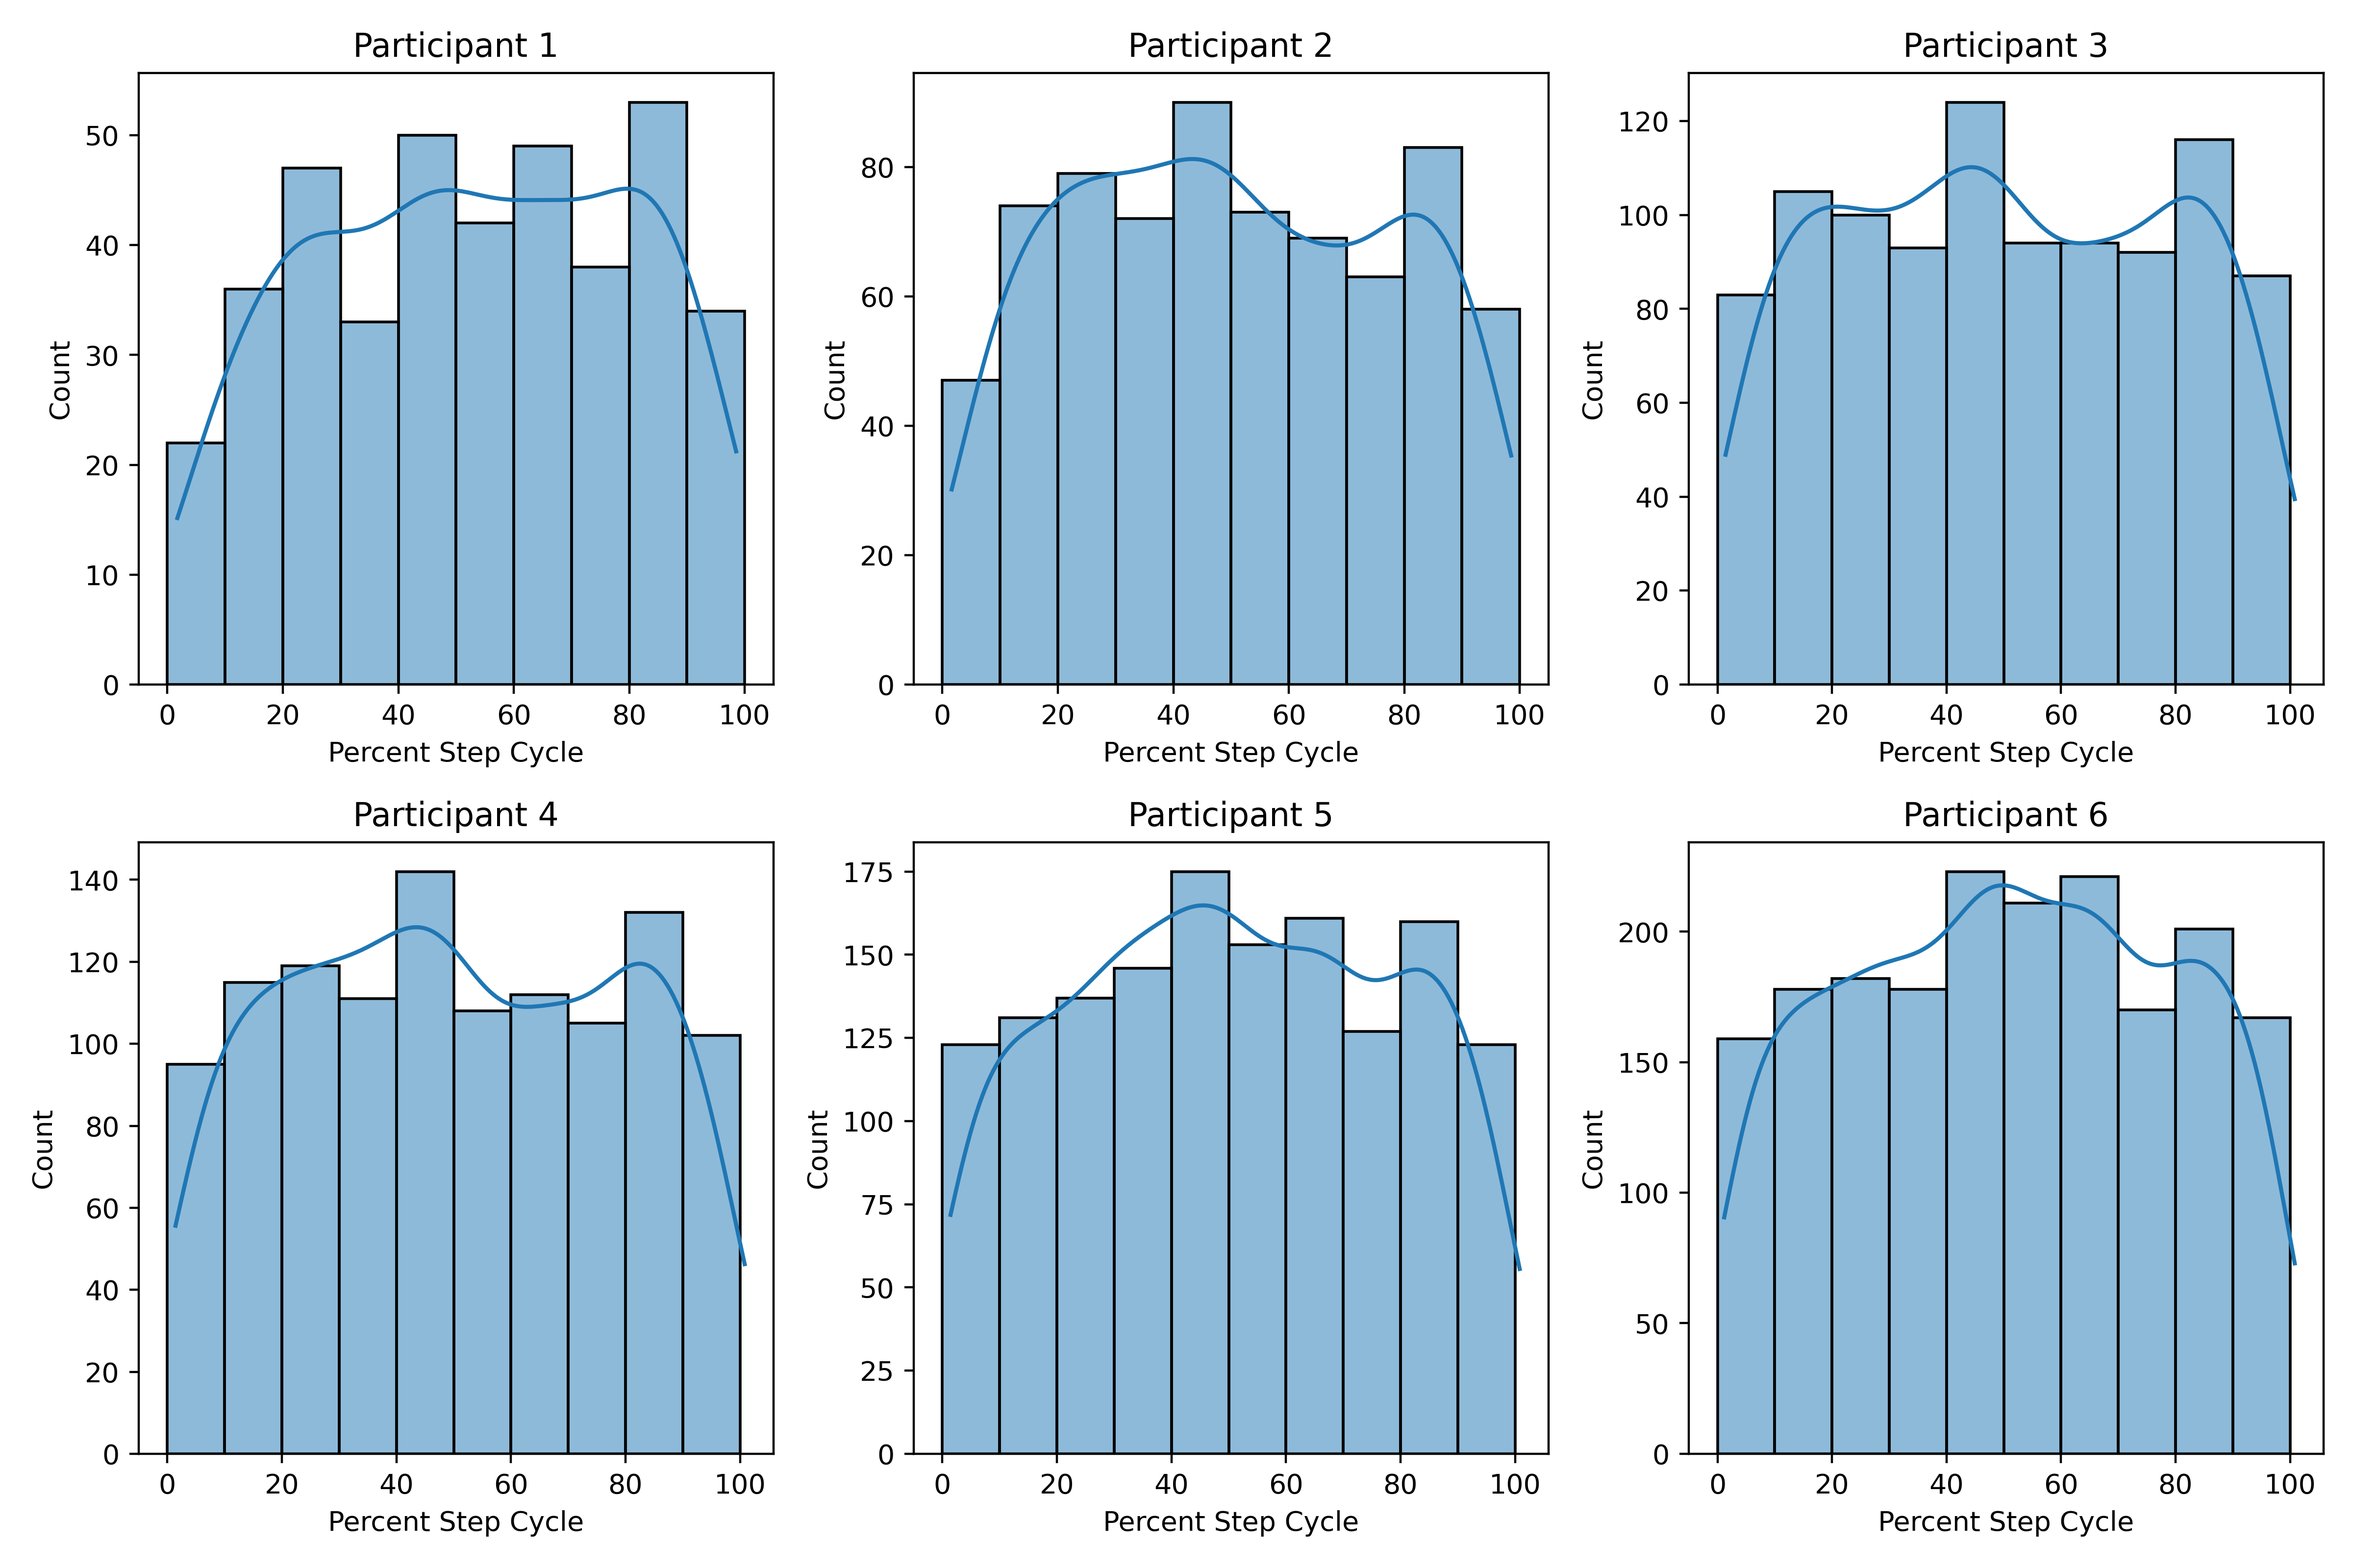
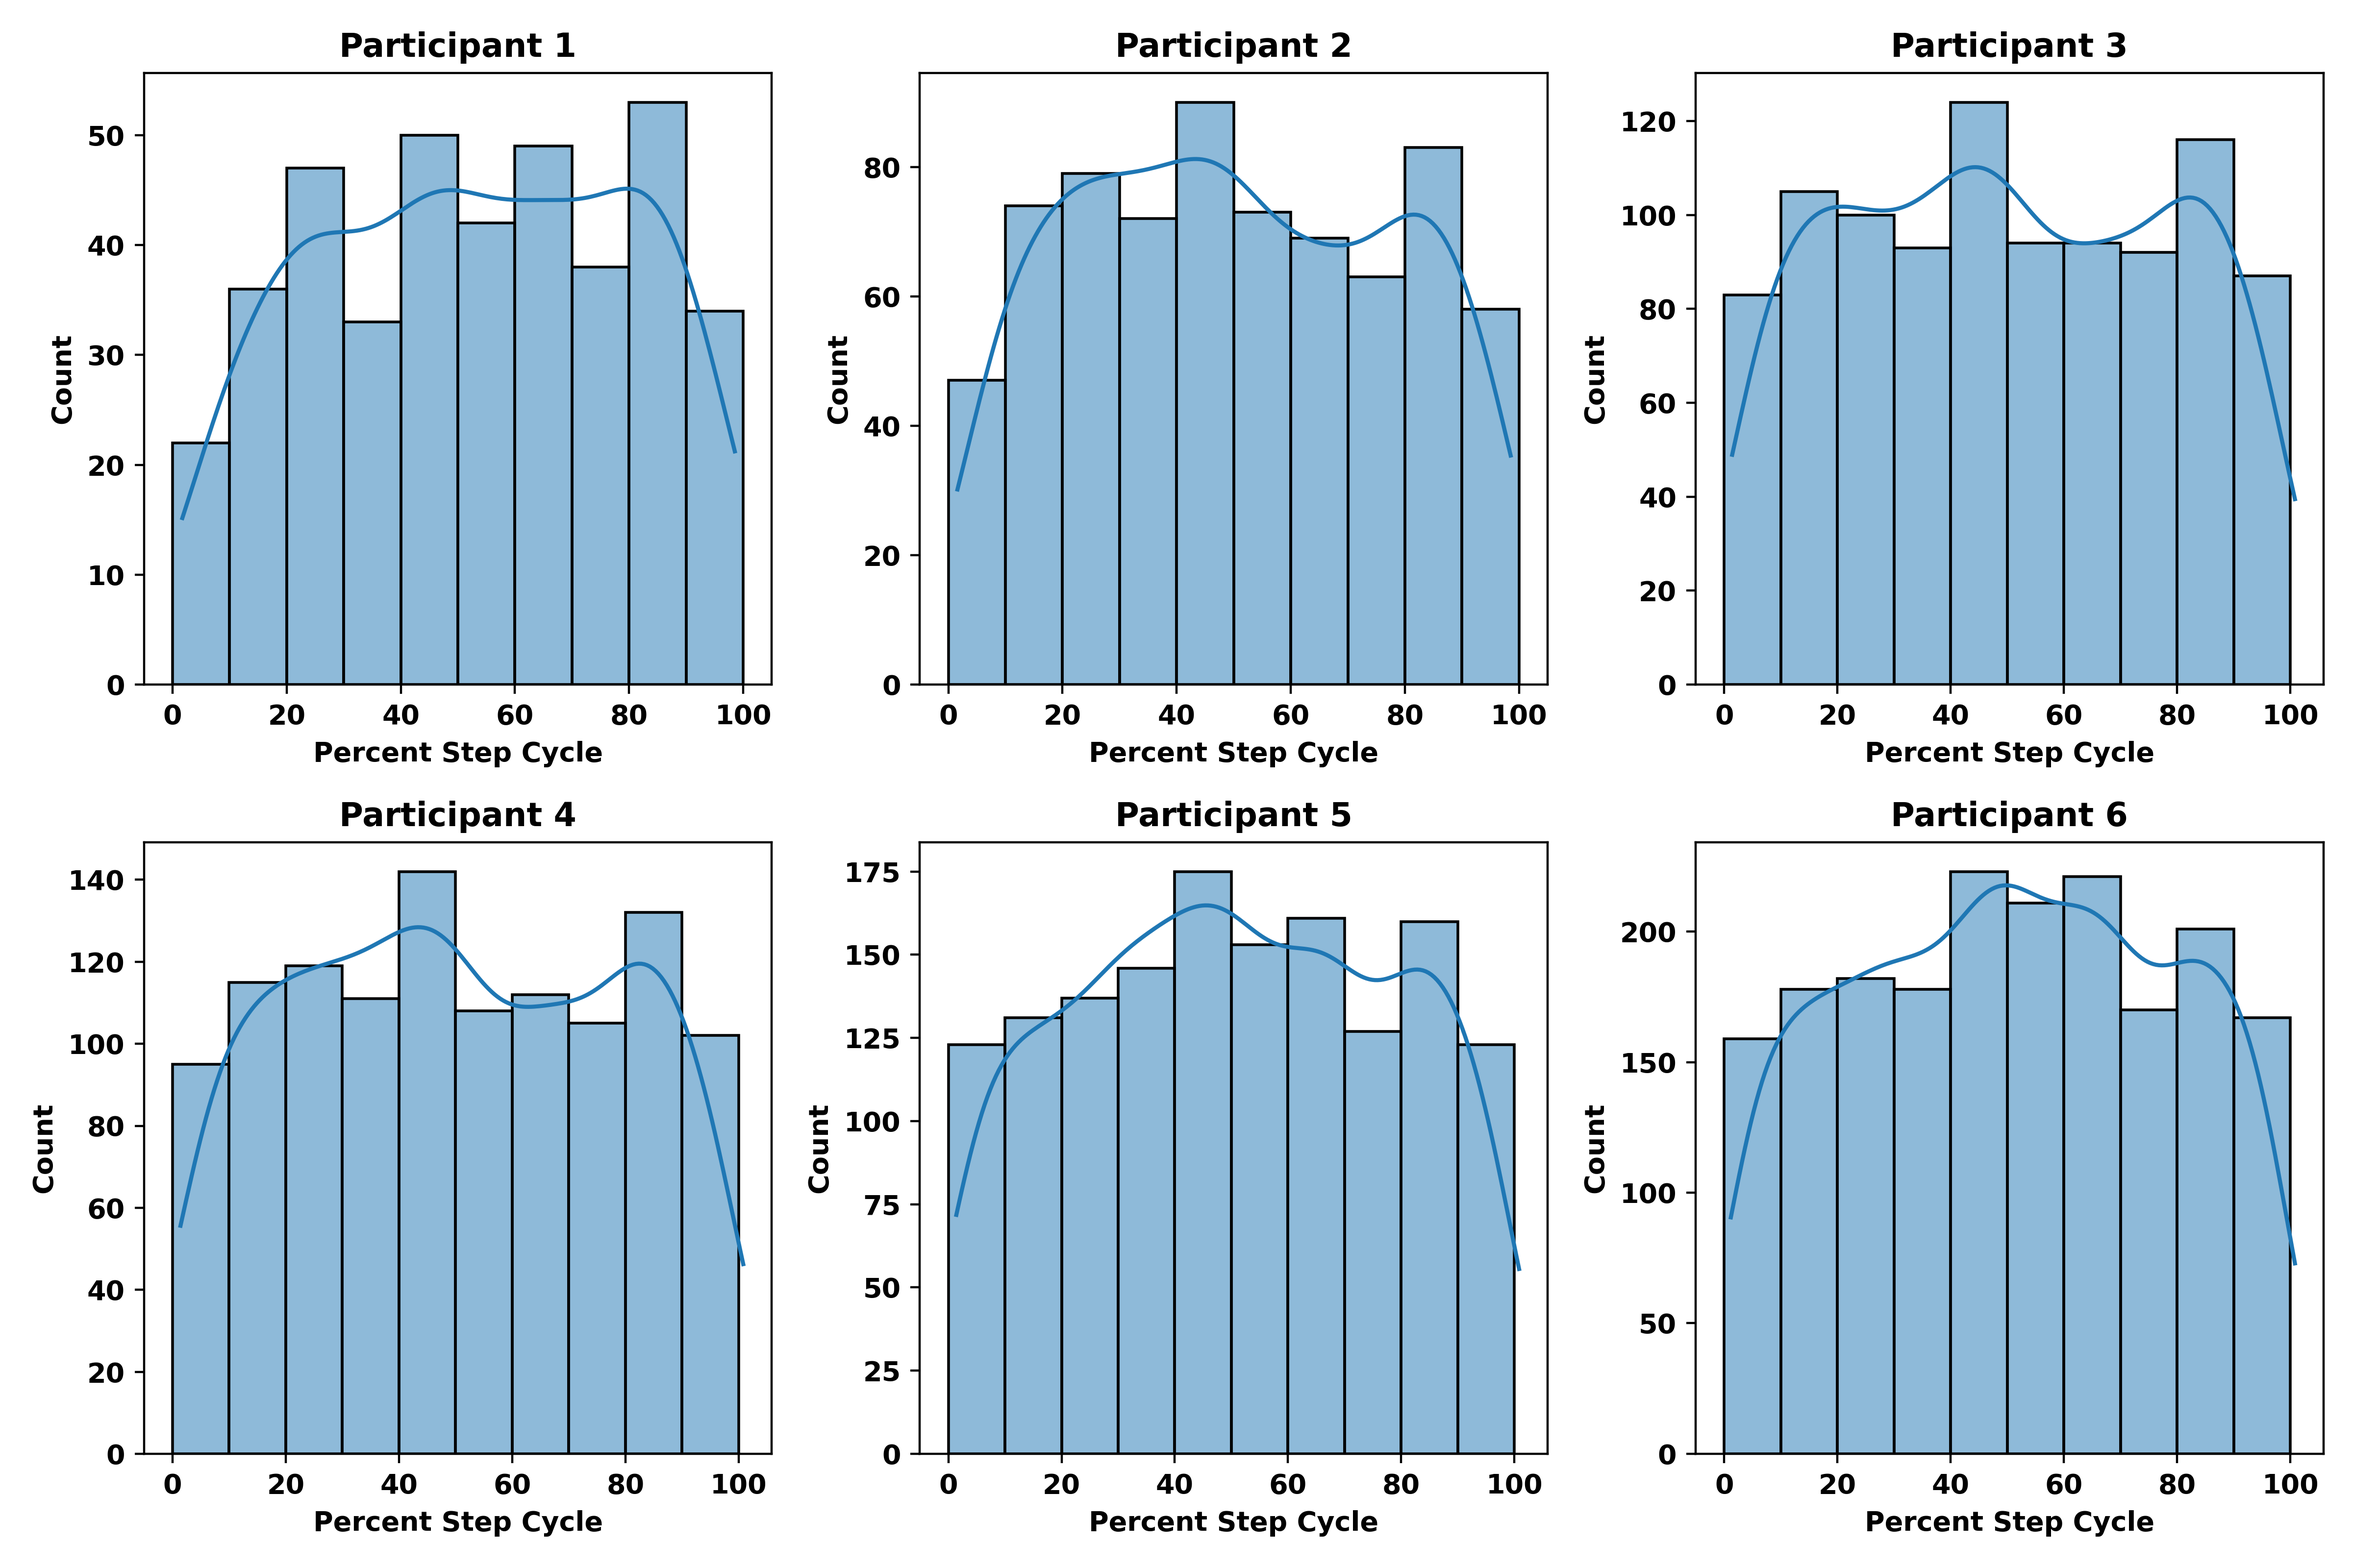
ADD: latest p_value plot

diff --git a/alternation_rate_step_cycle.py b/alternation_rate_step_cycle.py
@@ -11,6 +11,9 @@ from scipy.stats import shapiro, kstest, norm, uniform, ttest_rel
 import statsmodels.api as sm
 from fitter import Fitter, get_common_distributions, get_distributions
 from tqdm import tqdm
+from matplotlib import rc,rcParams
+rc('font', weight='bold')
+rcParams['text.latex.preamble'] = [r'\usepackage{sfmath} \boldmath']
 
 def read_all_files():
     directory = "/home/brianszekely/Desktop/ProjectsResearch/Binocular_Rivalry/Data/*/" #POPOS
@@ -368,8 +371,8 @@ def fit_dist(df):
     plt.figure()
     f.hist()
     f.plot_pdf()
-    plt.ylabel('Count')
-    plt.xlabel('Percent Step Cycle')
+    plt.ylabel('Count',fontweight='bold')
+    plt.xlabel('Percent Step Cycle',fontweight='bold')
     plt.savefig('alternations_step_cycle_fitted_dist.png',dpi=400)
     plt.close()
 
@@ -501,20 +504,30 @@ def main():
         row, col = divmod(i, 3)  # Calculate the row and column for the subplot
         ax = axes[row, col]
         sns.histplot(data=df, x="Percent Step Cycle", bins=bin_edges, kde=True, ax=ax)
+        ax.set_ylabel('Count', fontweight='bold')
+        ax.set_xlabel('Percent Step Cycle', fontweight='bold')
         bin_counts = np.histogram(df["Percent Step Cycle"], bins=bin_edges)[0]
         bin_count_subject[i] = [bin_edges, bin_counts]
         # print(bin_count_subject)
-        ax.set_title(f"Participant {i + 1}")
+        ax.set_title(f"Participant {i + 1}",fontweight='bold')
         combined_df = pd.concat([combined_df, df])
     plt.tight_layout()
     plt.savefig('alternations_step_cycle_first_all_participants.png',dpi=400)
     plt.close()
     # plt.show()
+    
+    #COMBINED PLOT
     combined_df.sort_values(by=['Percent Step Cycle'], inplace=True)
-
+    bin_edges = [i for i in range(0, 101, 10)]
+    sns.histplot(data=combined_df, x="Percent Step Cycle", bins=bin_edges, kde=True)
+    plt.ylabel('Count',fontweight='bold')
+    plt.xlabel('Percent Step Cycle',fontweight='bold')
+    plt.tight_layout()
+    plt.savefig('alternations_step_cycle_first_combined.png',dpi=400)
+    plt.close()
     #t-test compare bin counts
-    t_test_bins(bin_count_subject,bin_edges)
-    input()
+    # t_test_bins(bin_count_subject,bin_edges)
+    # input()
 
     #check normality of the data
     # stat, p = shapiro(df['Percent Step Cycle'])

diff --git a/p_values_step.py b/p_values_step.py
@@ -47,7 +47,7 @@ for i in range(p_values_df.shape[0]):
         p_value = p_values_df.iloc[i, j]
         if not np.isnan(p_value):
             if p_value < bonferroni_threshold:
-                color = 'red'
+                color = 'tab:blue'
             else:
                 color = 'white'
             rect = patches.Rectangle((j, i), 1, 1, linewidth=1, edgecolor='black', facecolor=color)
